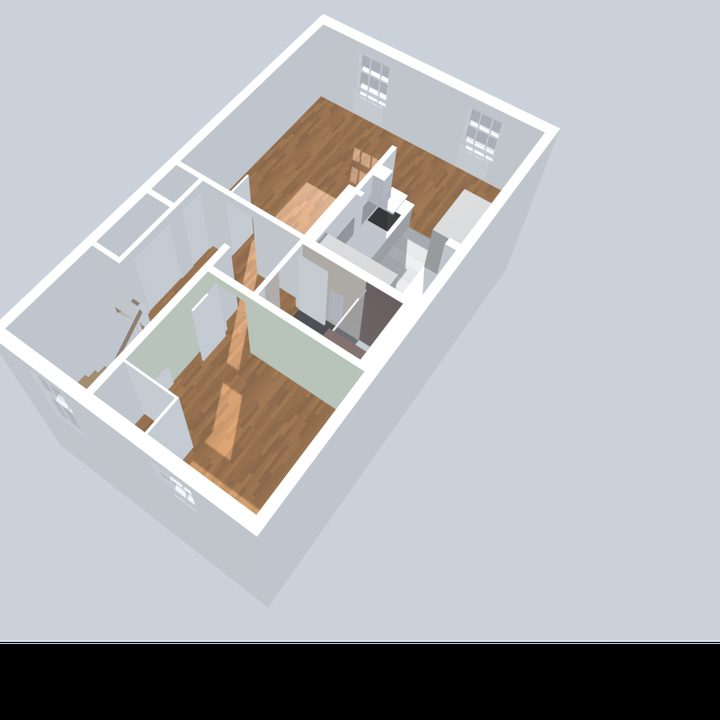
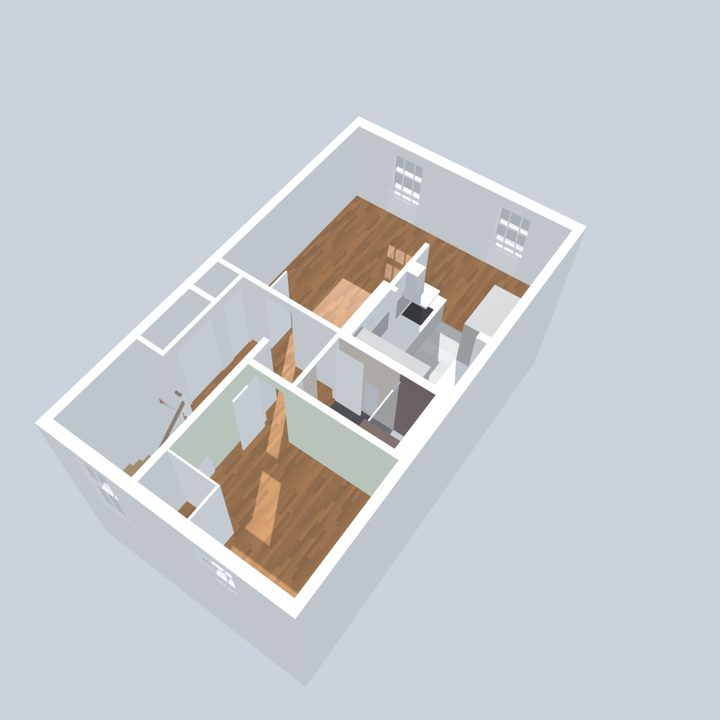
Fix preview image sizing and crop on the home page
Claude-Session: https://claude.ai/code/session_01PdrLWBkGqeQJ2HFiFgfQ1D

diff --git a/index.html b/index.html
@@ -30,7 +30,7 @@ header p { margin: 8px 0 0; color: var(--muted); font-size: 18px; max-width: 60c
 .flats { display: grid; gap: 20px; }
 .flat { display: grid; grid-template-columns: minmax(0, 300px) minmax(0, 1fr); gap: 24px; background: var(--raised);
   border: 1px solid var(--line); border-radius: 10px; padding: 16px; align-items: center; }
-.flat img { width: 100%; max-width: 100%; aspect-ratio: 1; object-fit: cover; border-radius: 6px; background: var(--bg); display: block; }
+.flat img { width: 100%; max-width: 100%; height: auto; aspect-ratio: 1; object-fit: cover; border-radius: 6px; background: var(--bg); display: block; }
 .flat h2 { margin: 0; font-size: 26px; font-weight: 700; }
 .facts { margin: 6px 0 14px; padding: 0; list-style: none; display: flex; flex-wrap: wrap; gap: 4px 16px;
   font-family: var(--font-mono); font-size: 13px; color: var(--muted); font-variant-numeric: tabular-nums; }
